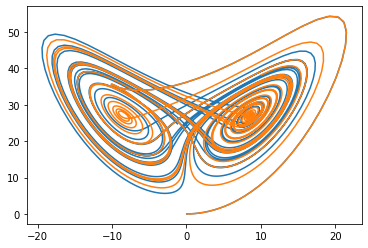
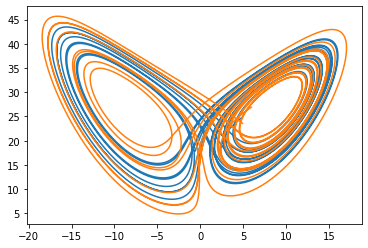
better start values

diff --git a/lorenz.py b/lorenz.py
@@ -2,8 +2,8 @@
 
 from vectors import Point
 
-ITERATIONS = 2500
-DT = 0.01
+ITERATIONS = 17500
+DT = 0.001
 
 def lorenz(sigma = 10, rho = 28, beta = 8/3, start = Point(0,0,0)):
     history = []
@@ -32,10 +32,10 @@ def lorenz(sigma = 10, rho = 28, beta = 8/3, start = Point(0,0,0)):
 
 import matplotlib.pyplot as plt
 
-x, y, z = lorenz(start=Point(0, 0.5, 0))
+x, y, z = lorenz(start=Point(5, 0, 25))
 plt.plot(x, z)
 
-x, y, z = lorenz(start=Point(0, 1, 0))
+x, y, z = lorenz(start=Point(6, 0, 27))
 plt.plot(x, z)
 
 plt.show()
